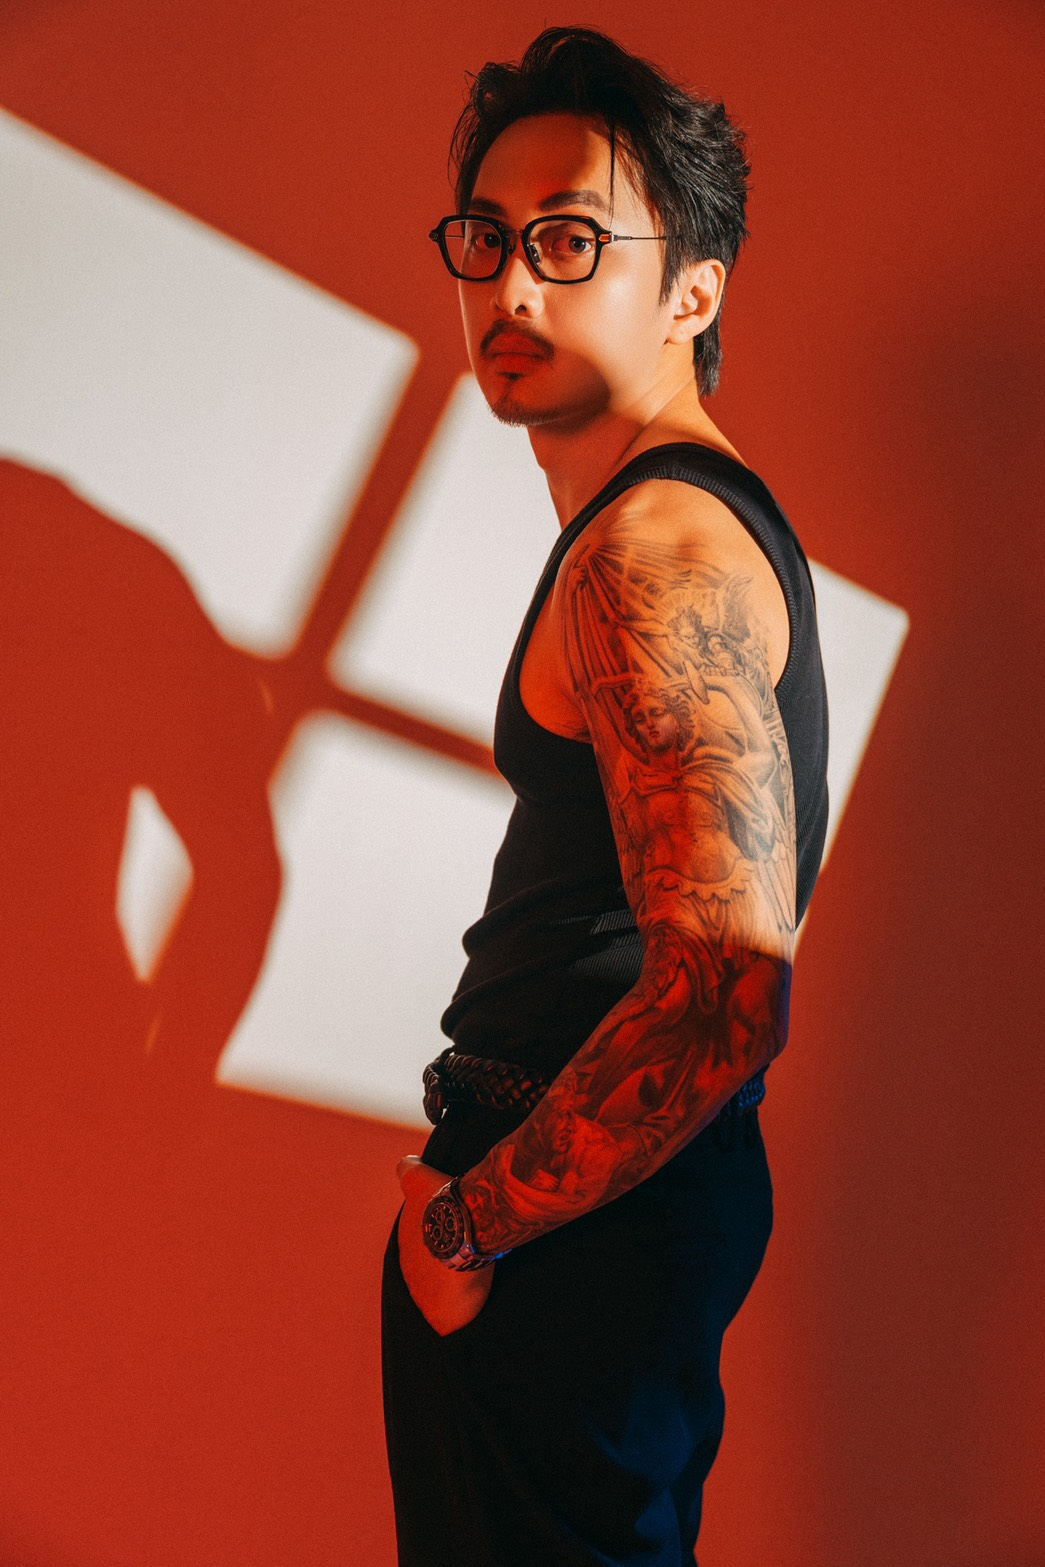
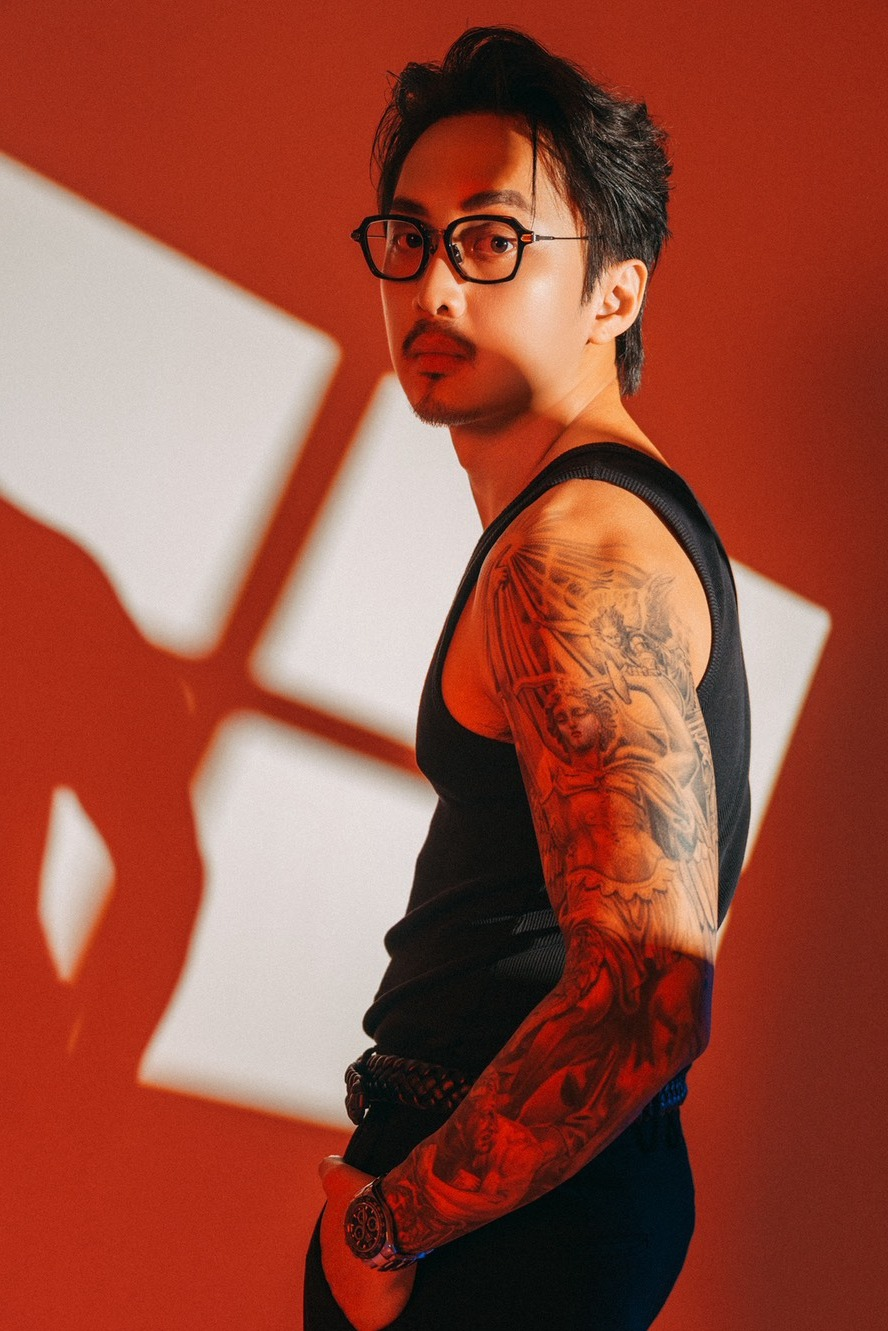
fix Eddie photo framing

diff --git a/index.html b/index.html
@@ -1651,7 +1651,7 @@
             </div>
           </div>
           <div class="judge-card">
-            <img class="judge-avatar" src="assets/judge-Eddie.jpg" alt="Eddie" style="object-position: center 10%;" />
+            <img class="judge-avatar" src="assets/judge-Eddie.jpg" alt="Eddie" style="object-position: center 15%;" />
             <div class="judge-card-body">
               <p class="judge-name">EDDIE</p>
               <p class="judge-salon">EPOCH</p>
@@ -1660,7 +1660,7 @@
             </div>
           </div>
           <div class="judge-card">
-            <img class="judge-avatar" src="assets/judge-Josh.jpg" alt="Josh" />
+            <img class="judge-avatar" src="assets/judge-Josh.jpg" alt="Josh" style="object-position: center 20%;" />
             <div class="judge-card-body">
               <p class="judge-name">JOSH</p>
               <p class="judge-salon">KLATCH</p>